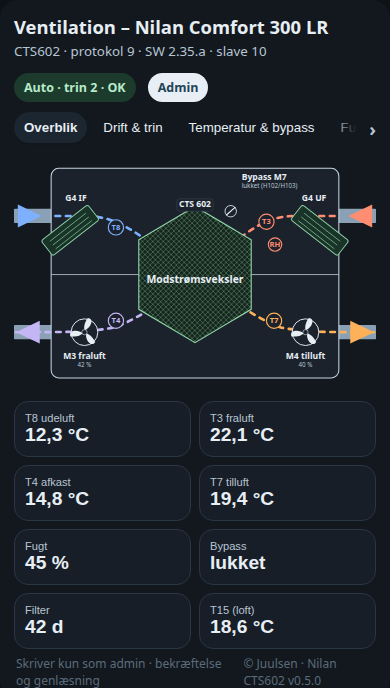
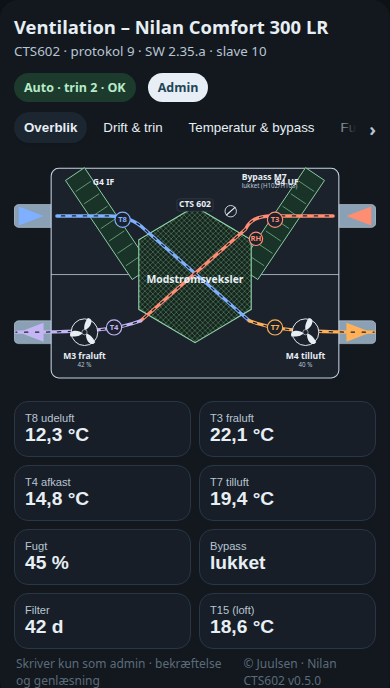
Draw the air paths through the exchanger and lengthen the filters.
The blue and red streams now cross as a solid X inside the hexagon before they leave as orange supply and purple exhaust. The G4 panels run from the top of the housing to the centre line, and the outside ducts are full grey bars with large arrows.

diff --git a/custom_components/nilan_cts602/frontend/nilan-diagram.js b/custom_components/nilan_cts602/frontend/nilan-diagram.js
@@ -7,8 +7,9 @@
   const STYLE = `
       .housing{fill:var(--hmi-housing);stroke:var(--hmi-outline);stroke-width:2.2}
       .split{fill:none;stroke:var(--hmi-outline);stroke-width:1.6}
-      .duct{fill:none;stroke:var(--hmi-frame);stroke-width:30;stroke-linecap:round}
-      .flow{fill:none;stroke-width:5.5;stroke-linecap:round;stroke-linejoin:round}
+      .duct-body{fill:var(--hmi-frame);stroke:var(--hmi-outline);stroke-width:1.2}
+      .flow{fill:none;stroke-width:7;stroke-linecap:round;stroke-linejoin:round}
+      .flow-dash{fill:none;stroke:var(--hmi-housing);stroke-width:2.6;stroke-linecap:round;stroke-dasharray:7 16;animation:nilan-flow 1.15s linear infinite}
       .flow.outdoor{stroke:var(--flow-outdoor)}
       .flow.extract{stroke:var(--flow-extract)}
       .flow.exhaust{stroke:var(--flow-exhaust)}
@@ -67,7 +68,7 @@
       svg.compact .tag{font-size:18px}
       svg.compact .sensor-label{font-size:16px}
       svg.compact .verbose{display:none}
-      @media (prefers-reduced-motion: reduce){.moving,.fan-unit[style] .blades{animation:none}}
+      @media (prefers-reduced-motion: reduce){.moving,.flow-dash,.fan-unit[style] .blades{animation:none}}
       @keyframes nilan-flow{to{stroke-dashoffset:-44}}
       @keyframes nilan-spin{to{transform:rotate(360deg)}}
   `;
@@ -160,33 +161,44 @@
       : fit.reheater === 'electric'
         ? coil(668, 360, 'reheater')
         : '';
+    const blue = 'M90 128 H200 C236 128 258 140 274 156 L494 348';
+    const orange = 'M494 348 C540 366 590 372 756 372';
+    const red = 'M670 128 H540 C508 128 492 142 486 156 L266 348';
+    const purple = 'M266 348 C220 366 170 372 4 372';
+    const dash = move
+      ? `<path class="flow-dash" d="${blue}"/><path class="flow-dash" d="${orange}"/><path class="flow-dash" d="${red}"/><path class="flow-dash" d="${purple}"/>`
+      : '';
     return `
-  <path class="duct" d="M4 128 H78 M682 128 H756 M78 372 H4 M682 372 H756"/>
-  <polygon class="big-arrow outdoor" points="8,104 58,128 8,152"/>
-  <polygon class="big-arrow extract" points="752,104 702,128 752,152"/>
-  <polygon class="big-arrow exhaust" points="54,348 4,372 54,396"/>
-  <polygon class="big-arrow supply" points="706,348 756,372 706,396"/>
+  <rect class="duct-body" x="0" y="104" width="86" height="48" rx="10"/>
+  <rect class="duct-body" x="674" y="104" width="86" height="48" rx="10"/>
+  <rect class="duct-body" x="0" y="348" width="86" height="48" rx="10"/>
+  <rect class="duct-body" x="674" y="348" width="86" height="48" rx="10"/>
+  <polygon class="big-arrow outdoor" points="10,108 62,128 10,148"/>
+  <polygon class="big-arrow extract" points="750,108 698,128 750,148"/>
+  <polygon class="big-arrow exhaust" points="62,352 10,372 62,392"/>
+  <polygon class="big-arrow supply" points="698,352 750,372 698,392"/>
   <rect class="housing" x="78" y="28" width="604" height="440" rx="16" data-part="housing"/>
   <line class="split" x1="78" y1="251" x2="682" y2="251"/>
-  <path class="flow outdoor ${move}" data-flow="outdoor" data-part="outdoor" d="M78 128 H150 C210 128 248 158 292 188 C330 214 352 236 380 251"/>
-  <path class="flow supply ${move}" data-flow="supply" data-part="supply" d="M380 251 C430 286 500 340 560 362 C610 372 650 372 756 372"/>
-  <path class="flow extract ${move}" data-flow="extract" data-part="extract" d="M682 128 H590 C530 128 492 160 452 192 C424 214 404 236 380 251"/>
-  <path class="flow exhaust ${move}" data-flow="exhaust" data-part="exhaust" d="M380 251 C340 286 270 342 210 362 C160 372 110 372 4 372"/>
   ${pre}
-  ${filterBank(118, 158, -38, filterClass, 'outdoor')}
-  <text class="tag" x="130" y="96" text-anchor="middle">${leftName}</text>
-  ${filterBank(642, 158, 38, filterClass, 'extract')}
-  <text class="tag" x="630" y="96" text-anchor="middle">${rightName}</text>
+  ${longFilter(128, 40, 268, 248, filterClass, 'outdoor')}
+  <text class="tag" x="188" y="62" text-anchor="middle">${leftName}</text>
+  ${longFilter(632, 40, 492, 248, filterClass, 'extract')}
+  <text class="tag" x="572" y="62" text-anchor="middle">${rightName}</text>
   <polygon class="hx-hex" points="${HEX}" data-part="exchanger"/>
   <polygon class="hx-hatch" points="${HEX}"/>
+  <path class="flow outdoor" data-flow="outdoor" data-part="outdoor" d="${blue}"/>
+  <path class="flow supply" data-flow="supply" data-part="supply" d="${orange}"/>
+  <path class="flow extract" data-flow="extract" data-part="extract" d="${red}"/>
+  <path class="flow exhaust" data-flow="exhaust" data-part="exhaust" d="${purple}"/>
+  ${dash}
   <rect class="cts-tag" x="342" y="92" width="76" height="26" rx="6"/>
   <text class="tag" x="380" y="110" text-anchor="middle">CTS 602</text>
   <text class="hx-label" x="380" y="268">Modstrømsveksler</text>
-  ${sensor(214, 152, 'T8', 't8_outdoor', 'outdoor', 16)}
-  ${sensor(530, 140, 'T3', 't3_extract', 'extract', 16)}
-  ${sensor(548, 188, 'RH', 'humidity', 'extract', 14)}
-  ${sensor(214, 348, 'T4', 't4_exhaust', 'exhaust', 16)}
-  ${sensor(546, 348, 'T7', 't7_supply', 'supply', 16)}
+  ${sensor(228, 136, 'T8', 't8_outdoor', 'outdoor', 16)}
+  ${sensor(548, 136, 'T3', 't3_extract', 'extract', 16)}
+  ${sensor(508, 176, 'RH', 'humidity', 'extract', 14)}
+  ${sensor(210, 362, 'T4', 't4_exhaust', 'exhaust', 16)}
+  ${sensor(548, 362, 'T7', 't7_supply', 'supply', 16)}
   <circle class="damper-ring" cx="455" cy="118" r="12"/>
   <path class="damper" d="${damper}" data-part="bypass" data-state="${bypass}"/>
   <text class="tag bypass-label" x="478" y="52">Bypass M7</text>
@@ -210,10 +222,31 @@
   </defs>`;
   }
 
-  function filterBank(x, y, angle, cls, which) {
-    return `<g data-part="filter" data-filter="${which}" class="${cls}" transform="translate(${x} ${y}) rotate(${angle})">
-      <rect class="filter-panel" x="-62" y="-20" width="124" height="40" rx="5"/>
-      <path class="filter-pleat" d="M-48 -8 H48 M-48 2 H48 M-48 12 H48"/>
+  function longFilter(x1, y1, x2, y2, cls, which) {
+    const dx = x2 - x1;
+    const dy = y2 - y1;
+    const len = Math.hypot(dx, dy) || 1;
+    const px = -dy / len;
+    const py = dx / len;
+    const w = 24;
+    const point = (x, y) => `${x.toFixed(1)},${y.toFixed(1)}`;
+    const corners = [
+      point(x1 + px * w, y1 + py * w),
+      point(x2 + px * w, y2 + py * w),
+      point(x2 - px * w, y2 - py * w),
+      point(x1 - px * w, y1 - py * w),
+    ];
+    let pleats = '';
+    for (let i = 1; i <= 7; i += 1) {
+      const t = i / 8;
+      const cx = x1 + dx * t;
+      const cy = y1 + dy * t;
+      const inset = w - 5;
+      pleats += `M${(cx + px * inset).toFixed(1)} ${(cy + py * inset).toFixed(1)} L${(cx - px * inset).toFixed(1)} ${(cy - py * inset).toFixed(1)} `;
+    }
+    return `<g data-part="filter" data-filter="${which}" class="${cls}">
+      <polygon class="filter-panel" points="${corners.join(' ')}"/>
+      <path class="filter-pleat" d="${pleats}"/>
     </g>`;
   }
 

diff --git a/CHANGELOG.md b/CHANGELOG.md
@@ -6,7 +6,7 @@ The project follows [Semantic Versioning](https://semver.org/). During the pre-1
 
 ## [0.5.0] - 2026-10-04
 
-- The overview follows the approved principle drawing. Grey ducts and large arrows enter and leave the housing. A horizontal line splits the housing. Two long diagonal G4 filter panels sit on the upper ducts. The counterflow exchanger is a cross-hatched hexagon with a CTS 602 tag. Blue outdoor air crosses to orange supply air, and red extract air crosses to purple exhaust air. Sensor circles sit on those lines. It is not a rotary wheel.
+- The overview follows the approved principle drawing. Grey ducts and large arrows enter and leave the housing. A horizontal line splits the housing. Two long diagonal G4 filter panels run from the top of the housing down to the centre line. The counterflow exchanger is a cross-hatched hexagon with a CTS 602 tag. Blue outdoor air runs through the hexagon and leaves as orange supply air, and red extract air runs through it and leaves as purple exhaust air. Sensor circles sit on those lines. It is not a rotary wheel.
 - `theme` stays `light`, `dark` or `auto`. `auto` follows Home Assistant dark mode. Every fill, stroke and label in the diagram uses those theme colours, including the housing, the four temperature boxes and the efficiency and T15 plaques. Labels sit clear of ducts, filters, fans and the bypass damper. On a narrow screen the drawing fills the card, the status line shortens, the tabs scroll with an edge fade, and the values sit in the grid below.
 - Equipment toggles default to off: electric preheater, electric reheater, water reheater (the two reheaters exclude each other), option board and CO₂. Missing parts are not drawn and do not create entities. Plant options migrate to version 2. T0 is the sensor on the controller board. T10 is an external room sensor.
 - Settings tabs: Drift & trin, Temperatur & bypass, Fugt & luftkvalitet, Ugeprogram, Filter & alarmer, Service & konfiguration. Each setting has an explanation, the range and the register.
